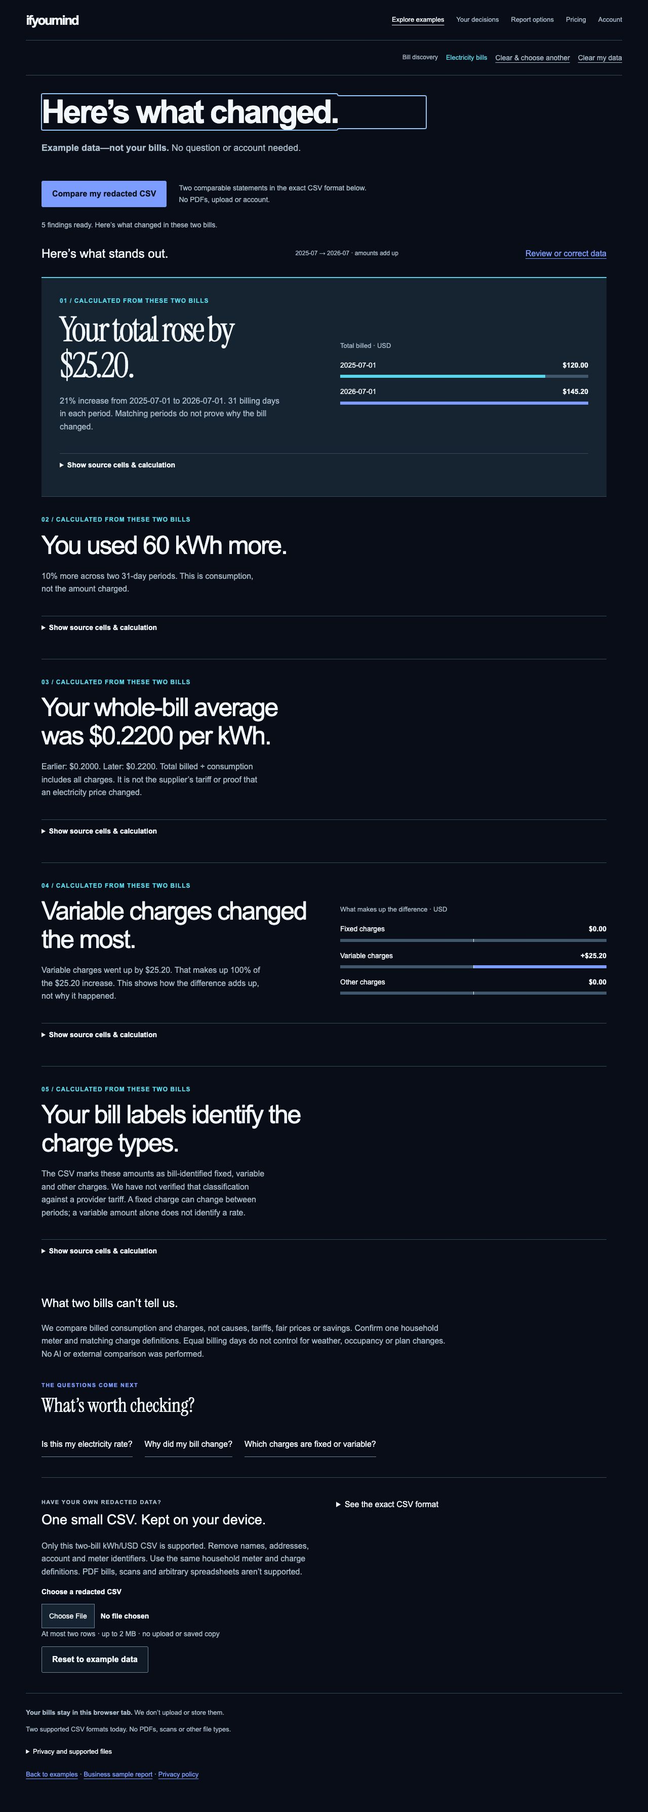
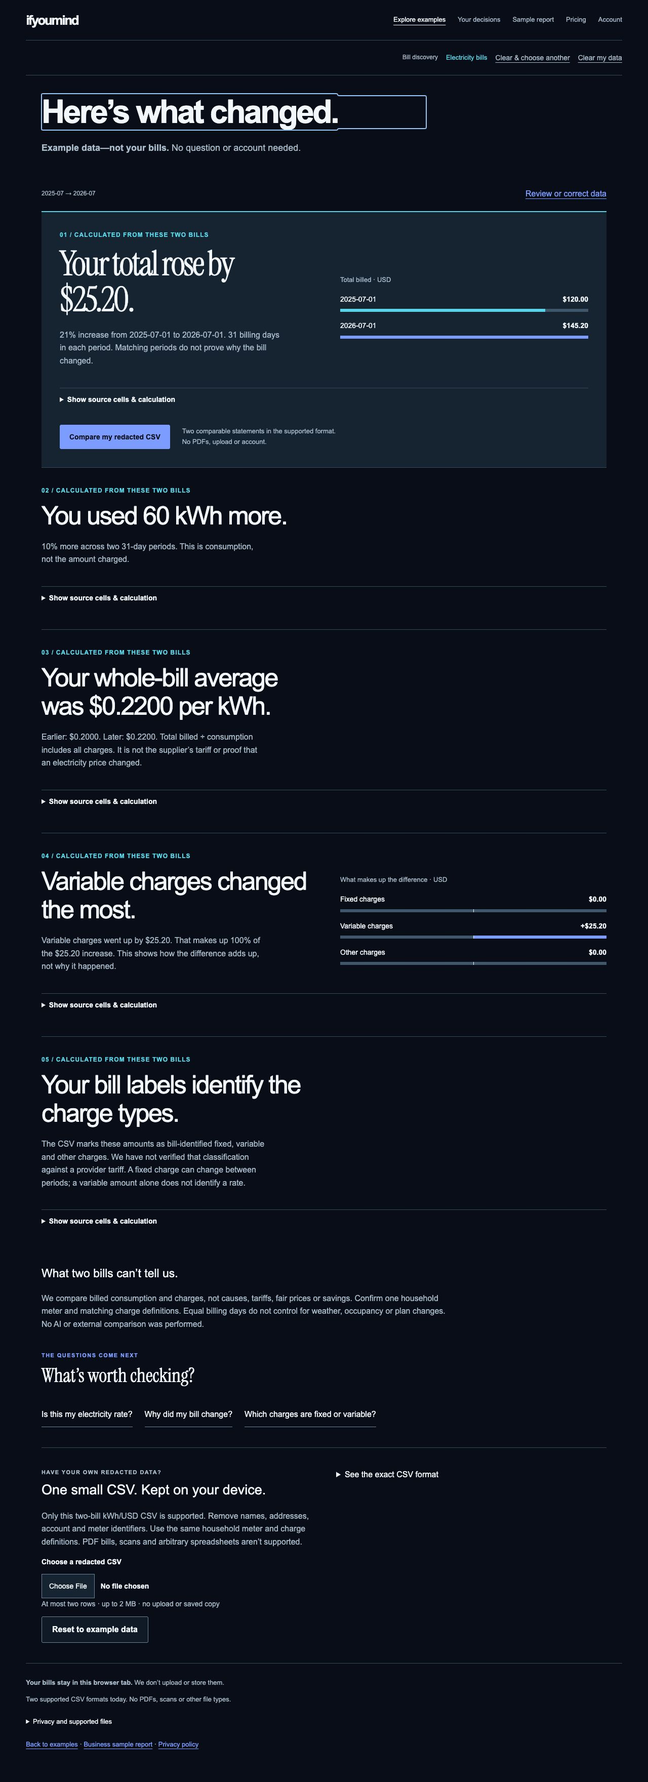
Finish connected prototype review and record verification limits

Changed region(s): [[0.0312, 0.0312, 0.9375, 0.9688], [0.5312, 0.5, 0.9375, 0.5625], [0.625, 0.0, 0.6875, 0.0625]]

diff --git a/src/app/intelligence/data-canvas.component.scss b/src/app/intelligence/data-canvas.component.scss
@@ -1,8 +1,8 @@
 @use '../product-design' as product;
 
-:host{display:block;min-height:100vh;background:var(--iy-studio);color:var(--iy-studio-text)}.canvas-shell{width:min(1180px,calc(100% - 40px));margin:0 auto;padding:28px 0 80px}.app-nav{display:flex;align-items:center;justify-content:space-between;gap:24px;margin-bottom:60px;padding-bottom:20px;border-bottom:1px solid var(--iy-studio-line)}.brand{color:var(--iy-studio-text);font-weight:850;letter-spacing:-.03em;text-decoration:none}.brand span,.app-nav a{color:var(--iy-studio-muted)}.app-nav>div{display:flex;gap:18px}.app-nav>div a{text-decoration:none;font-size:14px}.app-nav a.active{color:var(--iy-studio-text)}header{max-width:820px;margin-bottom:34px}h1{margin:6px 0 14px;font-size:clamp(44px,7vw,76px);line-height:.96;letter-spacing:-.055em}h2{margin:6px 0 16px;letter-spacing:-.03em}p{color:var(--iy-studio-muted);line-height:1.6}.lede{font-size:18px}.eyebrow{margin:0;color:var(--iy-studio-muted);font-size:11px;font-weight:800;letter-spacing:.15em;text-transform:uppercase}.panel,.analysis,.dataset-card,.empty{border:1px solid var(--iy-studio-line);border-radius:var(--iy-panel-radius);background:var(--iy-studio-panel)}.panel{padding:22px}.error{color:var(--iy-studio-error);margin-bottom:16px}.builder-grid{display:grid;grid-template-columns:1fr 1fr;gap:16px}.form-grid{display:grid;grid-template-columns:1fr 1fr;gap:10px}.form-grid textarea,.form-grid button{grid-column:1/-1}input,select,textarea{width:100%;box-sizing:border-box;border:1px solid var(--iy-studio-control);border-radius:var(--iy-radius);background:var(--iy-studio-panel);color:var(--iy-studio-text);padding:12px;font:inherit}button{border:0;border-radius:var(--iy-radius);padding:12px 14px;font-weight:800;cursor:pointer}button:disabled{opacity:.5;cursor:default}.form-grid button,.analyze-button{background:var(--iy-paper);color:var(--iy-ink)}.dataset-section{margin-top:44px}.section-heading,.analysis-header,.relationship-title{display:flex;align-items:center;justify-content:space-between;gap:20px}.dataset-grid{display:grid;grid-template-columns:repeat(3,1fr);gap:12px}.dataset-card{text-align:left;padding:18px;color:inherit}.dataset-card.selected{border-color:var(--iy-studio-accent);box-shadow:inset 0 0 0 1px var(--iy-studio-accent)}.dataset-card strong{display:block;margin:8px 0 6px;font-size:18px}.dataset-card p{margin:0}.dataset-card small,.source{color:var(--iy-studio-muted);font-size:11px}.source{text-transform:uppercase;letter-spacing:.12em}.empty{padding:26px;color:var(--iy-studio-muted)}.analysis{margin-top:34px;padding:24px}.confidence{border:1px solid var(--iy-studio-line);border-radius:999px;padding:7px 10px;color:var(--iy-studio-muted);font-size:11px;text-transform:capitalize}.relationship{margin-top:14px;border-top:1px solid var(--iy-studio-line);padding-top:16px}.relationship-title span{color:var(--iy-studio-muted);font-size:11px}.relationship p{margin:8px 0}.relationship small{color:var(--iy-studio-muted)}.limitations{margin-top:24px;border-top:1px solid var(--iy-studio-line);padding-top:18px}.limitations li{margin:6px 0;color:var(--iy-studio-muted)}.analyze-button{white-space:nowrap}@media(max-width:820px){.builder-grid,.dataset-grid{grid-template-columns:1fr}.form-grid{grid-template-columns:1fr}.app-nav,.section-heading,.analysis-header{align-items:flex-start;flex-direction:column}.app-nav>div{flex-wrap:wrap}.canvas-shell{width:min(100% - 24px,1180px)}}.import-banner{display:flex;align-items:center;justify-content:space-between;gap:20px;margin-bottom:16px;border:1px solid var(--iy-studio-line);border-radius:var(--iy-panel-radius);background:var(--iy-studio-panel);padding:18px 20px}.import-banner strong{display:block;margin-top:5px;font-size:17px}.import-banner a{border-radius:var(--iy-radius);background:var(--iy-paper);color:var(--iy-ink);padding:11px 14px;text-decoration:none;font-weight:800;white-space:nowrap}@media(max-width:640px){.import-banner{align-items:flex-start;flex-direction:column}}
-.target-picker{display:grid;grid-template-columns:minmax(220px,340px);gap:7px;margin:0 0 16px}.target-picker label{color:#8d96a8;font-size:12px;font-weight:700}.target-picker select{width:100%;border:1px solid #39425a;border-radius:var(--iy-radius);background:#0b1018;color:#f4f6fb;padding:11px}.reasoning{border-color:#38436b;background:radial-gradient(circle at top right,rgba(99,102,241,.12),transparent 24rem),var(--iy-studio-panel)}.reasoning-columns{display:grid;grid-template-columns:1fr 1fr;gap:24px;margin-top:24px}.empty-note{color:#737c90;font-size:13px}.raw-analysis{opacity:.86}@media(max-width:820px){.reasoning-columns{grid-template-columns:1fr}}
-.ai-action{display:flex;align-items:center;gap:12px;margin-top:22px;padding-top:18px;border-top:1px solid var(--iy-studio-line)}.ai-action button{background:var(--iy-paper);color:var(--iy-studio)}.ai-action span{color:var(--iy-studio-muted);font-size:12px}.synthesis{border-color:var(--iy-studio-control);background:var(--iy-studio-panel)}.synthesis ul{margin:10px 0 0;padding-left:20px;color:var(--iy-studio-muted)}.synthesis li{margin:8px 0;line-height:1.5}.synthesis-subhead{margin-top:24px}.confidence-explanation{margin-top:22px;border-top:1px solid var(--iy-studio-line);padding-top:18px}@media(max-width:640px){.ai-action{align-items:flex-start;flex-direction:column}}
+:host{display:block;min-height:100vh;background:var(--iy-studio);color:var(--iy-studio-text)}.canvas-shell{width:min(1180px,calc(100% - 40px));margin:0 auto;padding:28px 0 80px}.app-nav{display:flex;align-items:center;justify-content:space-between;gap:24px;margin-bottom:60px;padding-bottom:20px;border-bottom:1px solid var(--iy-studio-line)}.brand{color:var(--iy-studio-text);font-weight:850;letter-spacing:-.03em;text-decoration:none}.brand span,.app-nav a{color:var(--iy-studio-muted)}.app-nav>div{display:flex;gap:18px}.app-nav>div a{text-decoration:none;font-size:14px}.app-nav a.active{color:var(--iy-studio-text)}header{max-width:820px;margin-bottom:34px}h1{margin:6px 0 14px;font-size:clamp(44px,7vw,76px);line-height:.96;letter-spacing:-.055em}h2{margin:6px 0 16px;letter-spacing:-.03em}p{color:var(--iy-studio-muted);line-height:1.6}.lede{font-size:18px}.eyebrow{margin:0;color:var(--iy-studio-muted);font-size:11px;font-weight:800;letter-spacing:.15em;text-transform:uppercase}.panel,.analysis,.dataset-card,.empty{border:1px solid var(--iy-studio-line);border-radius:var(--iy-panel-radius);background:var(--iy-studio-panel)}.panel{padding:22px}.error{color:var(--iy-studio-error);margin-bottom:16px}.builder-grid{display:grid;grid-template-columns:1fr 1fr;gap:16px}.form-grid{display:grid;grid-template-columns:1fr 1fr;gap:10px}.form-grid textarea,.form-grid button{grid-column:1/-1}input,select,textarea{width:100%;box-sizing:border-box;border:1px solid var(--iy-studio-control);border-radius:var(--iy-radius);background:var(--iy-studio-panel);color:var(--iy-studio-text);padding:12px;font:inherit}button{border:0;border-radius:var(--iy-radius);padding:12px 14px;font-weight:800;cursor:pointer}button:disabled{opacity:1;cursor:default}.form-grid button,.analyze-button{background:var(--iy-paper);color:var(--iy-ink)}.dataset-section{margin-top:44px}.section-heading,.analysis-header,.relationship-title{display:flex;align-items:center;justify-content:space-between;gap:20px}.dataset-grid{display:grid;grid-template-columns:repeat(3,1fr);gap:12px}.dataset-card{text-align:left;padding:18px;color:inherit}.dataset-card.selected{border-color:var(--iy-studio-accent);box-shadow:inset 0 0 0 1px var(--iy-studio-accent)}.dataset-card strong{display:block;margin:8px 0 6px;font-size:18px}.dataset-card p{margin:0}.dataset-card small,.source{color:var(--iy-studio-muted);font-size:11px}.source{text-transform:uppercase;letter-spacing:.12em}.empty{padding:26px;color:var(--iy-studio-muted)}.analysis{margin-top:34px;padding:24px}.confidence{border:1px solid var(--iy-studio-line);border-radius:999px;padding:7px 10px;color:var(--iy-studio-muted);font-size:11px;text-transform:capitalize}.relationship{margin-top:14px;border-top:1px solid var(--iy-studio-line);padding-top:16px}.relationship-title span{color:var(--iy-studio-muted);font-size:11px}.relationship p{margin:8px 0}.relationship small{color:var(--iy-studio-muted)}.limitations{margin-top:24px;border-top:1px solid var(--iy-studio-line);padding-top:18px}.limitations li{margin:6px 0;color:var(--iy-studio-muted)}.analyze-button{white-space:nowrap}@media(max-width:820px){.builder-grid,.dataset-grid{grid-template-columns:1fr}.form-grid{grid-template-columns:1fr}.app-nav,.section-heading,.analysis-header{align-items:flex-start;flex-direction:column}.app-nav>div{flex-wrap:wrap}.canvas-shell{width:min(100% - 24px,1180px)}}.import-banner{display:flex;align-items:center;justify-content:space-between;gap:20px;margin-bottom:16px;border:1px solid var(--iy-studio-line);border-radius:var(--iy-panel-radius);background:var(--iy-studio-panel);padding:18px 20px}.import-banner strong{display:block;margin-top:5px;font-size:17px}.import-banner a{border-radius:var(--iy-radius);background:var(--iy-paper);color:var(--iy-ink);padding:11px 14px;text-decoration:none;font-weight:800;white-space:nowrap}@media(max-width:640px){.import-banner{align-items:flex-start;flex-direction:column}}
+.target-picker{display:grid;grid-template-columns:minmax(220px,340px);gap:7px;margin:0 0 16px}.target-picker label{color:#8d96a8;font-size:12px;font-weight:700}.target-picker select{width:100%;border:1px solid #39425a;border-radius:var(--iy-radius);background:#0b1018;color:#f4f6fb;padding:11px}.reasoning{border-color:#38436b;background:var(--iy-studio-panel)}.reasoning-columns{display:grid;grid-template-columns:1fr 1fr;gap:24px;margin-top:24px}.empty-note{color:#737c90;font-size:13px}.raw-analysis{opacity:.86}@media(max-width:820px){.reasoning-columns{grid-template-columns:1fr}}
+.ai-action{display:flex;align-items:center;gap:12px;margin-top:22px;padding-top:18px;border-top:1px solid var(--iy-studio-line)}.ai-action button{background:var(--iy-periwinkle);color:var(--iy-bg)}.ai-action span{color:var(--iy-studio-muted);font-size:12px}.synthesis{border-color:var(--iy-studio-control);background:var(--iy-studio-panel)}.synthesis ul{margin:10px 0 0;padding-left:20px;color:var(--iy-studio-muted)}.synthesis li{margin:8px 0;line-height:1.5}.synthesis-subhead{margin-top:24px}.confidence-explanation{margin-top:22px;border-top:1px solid var(--iy-studio-line);padding-top:18px}@media(max-width:640px){.ai-action{align-items:flex-start;flex-direction:column}}
 .demo-banner{display:flex;align-items:center;justify-content:space-between;gap:20px;margin-bottom:16px;border:1px solid var(--iy-studio-line);border-radius:var(--iy-panel-radius);background:var(--iy-studio-panel);padding:18px 20px}.demo-banner strong{display:block;margin-top:5px;font-size:17px}.demo-banner p:last-child{margin:5px 0 0;font-size:12px}.demo-banner button{background:var(--iy-paper);color:var(--iy-ink);white-space:nowrap}@media(max-width:640px){.demo-banner{align-items:flex-start;flex-direction:column}}
 .workspace-setup{max-width:620px}.workspace-setup h2{font-size:28px}.workspace-setup form{display:flex;gap:10px;margin-top:18px}.workspace-setup form input{flex:1}.workspace-setup form button{background:var(--iy-paper);color:var(--iy-ink);white-space:nowrap}@media(max-width:640px){.workspace-setup form{flex-direction:column}}
 :host {
@@ -24,3 +24,5 @@ input::placeholder, textarea::placeholder { color: var(--iy-studio-muted); opaci
 header h1 { @include product.title; }
 .panel,.demo-banner { border:0; border-top:1px solid var(--iy-line); border-radius:0; box-shadow:none; }
 .dataset-card { border:0; border-bottom:1px solid var(--iy-line); border-radius:0; background:none; }
+
+button:disabled { background:var(--iy-panel); color:var(--iy-muted); border:1px solid var(--iy-control); }

diff --git a/docs/design/midnight-slate/PROTOTYPE.html b/docs/design/midnight-slate/PROTOTYPE.html
@@ -5,4 +5,4 @@ body{margin:0;background:#090D17;color:#F1F7FA;font:16px/1.6 Arial,sans-serif}ma
 <h2>Inspect the bill’s evidence</h2><div class="pair"><img src="screenshots/after-tax-1280.jpg" alt="Desktop tax example with deterministic finding"><img class="mobile" src="screenshots/after-tax-390.jpg" alt="Mobile tax example with deterministic finding"></div>
 <h2>Continue with your own supported information</h2><div class="pair"><img src="screenshots/after-own-tax-1280.jpg" alt="Desktop supported redacted CSV intake"><img class="mobile" src="screenshots/after-own-tax-390.jpg" alt="Mobile supported redacted CSV intake"></div>
 <h2>Resume your saved city question</h2><div class="pair"><img src="screenshots/after-decisions-1280.jpg" alt="Desktop saved city questions precede suggestions"><img class="mobile" src="screenshots/after-decisions-390.jpg" alt="Mobile saved city decision list"></div>
-<h2>Understand the optional purchase</h2><div class="pair"><img src="screenshots/after-pricing-1280.jpg" alt="Desktop pricing with Free and the unchanged one-time report"><img class="mobile" src="screenshots/after-pricing-390.jpg" alt="Mobile pricing with closed monthly enrollment"></div><p class="note">Human acceptance is untested. The founder’s five unassisted tasks remain the release criterion. See REVIEW.md for the complete route map, privacy boundaries and verification evidence.</p></main></body></html>
+<h2>Understand the optional purchase</h2><div class="pair"><img src="screenshots/after-pricing-1280.jpg" alt="Desktop pricing with Free and the unchanged one-time report"><img class="mobile" src="screenshots/after-pricing-390.jpg" alt="Mobile pricing with closed monthly enrollment"></div><h2>Account datasets stay distinct from private bills</h2><div class="pair"><img src="screenshots/after-data-1280.jpg" alt="Desktop account CSV import explicitly distinguishes private bill processing"><img class="mobile" src="screenshots/after-ask-390.jpg" alt="Mobile Ask names compatible saved datasets and evidence limitations"></div><p class="note">Human acceptance is untested. The founder’s five unassisted tasks remain the release criterion. See REVIEW.md for the complete route map, privacy boundaries and verification evidence.</p></main></body></html>

diff --git a/src/app/intelligence/ask.component.scss b/src/app/intelligence/ask.component.scss
@@ -91,11 +91,11 @@ button {
 
 .ask-panel form button {
   justify-self: end;
-  background: var(--iy-paper);
-  color: var(--iy-studio);
+  background: var(--iy-periwinkle);
+  color: var(--iy-bg);
 }
 
-button:disabled { opacity: .5; cursor: default; }
+button:disabled { opacity: 1; cursor: default; }
 
 .prompt-row, .followups {
   display: flex;
@@ -141,8 +141,8 @@ button:disabled { opacity: .5; cursor: default; }
 
 .save-answer {
   margin-top: 14px;
-  background: var(--iy-paper);
-  color: var(--iy-studio);
+  background: var(--iy-periwinkle);
+  color: var(--iy-bg);
 }
 
 .saved-actions {
@@ -185,3 +185,5 @@ header h1 { @include product.title; }
 .history article { border:0; border-bottom:1px solid var(--iy-line); border-radius:0; background:none; }
 .data-context { color:var(--iy-muted); font-size:14px; }.data-context a,.panel>a { color:var(--iy-accent); }
 .data-context a { text-decoration:underline; }
+
+.ask-panel form button:disabled { background:var(--iy-panel); color:var(--iy-muted); border:1px solid var(--iy-control); }

diff --git a/src/app/intelligence/data-canvas.component.html b/src/app/intelligence/data-canvas.component.html
@@ -10,10 +10,10 @@
   </nav>
 
   <header>
-    <p class="eyebrow">Data Canvas</p>
-    <h1>Put anything together.</h1>
+    <p class="eyebrow">Explore your saved data</p>
+    <h1>Compare the observations.</h1>
     <p class="lede">
-      Real estate. Crime. Food. Weather. Business metrics. Anything with measurable observations can live here.
+      Add measured values, then compare datasets with compatible periods and places. Relationships are not proof of cause.
     </p>
   </header>
 

diff --git a/docs/design/midnight-slate/REVIEW.md b/docs/design/midnight-slate/REVIEW.md
@@ -101,9 +101,9 @@ The first connected prototype check passed the category-to-intake and saved-ques
 
 ## Verification and limitations
 
-Local `npm run build`, `npm run build:local`, 146 fast checks, 32 targeted authenticated browser/accessibility checks and the production/island guards passed at their recorded checkpoints. New targeted tests cover supported-category intake, no unsupported explanation for missing input, state clearing, saved-question ordering and conclusion-before-contents. Full exact-head CI is required for the final draft. Initial Hosting verification exposed stale typography/label assertions and an actual first-finding placement problem at 320 px; correct the layout rather than removing that viewport requirement. The source review retains all existing verification/payment/intent tests while changing the intentional single sample-offer expectation.
+Local `npm run build`, `npm run build:local`, 146 fast checks, 32 targeted authenticated browser/accessibility checks and the production/island guards passed at their recorded checkpoints. New targeted tests cover supported-category intake, no unsupported explanation for missing input, state clearing, saved-question ordering and conclusion-before-contents. Exact-head Linux CI is blocked by the verified GitHub account billing lock; it remains required for release. Initial Hosting verification exposed stale typography/label assertions and an actual first-finding placement problem at 320 px; correct the layout rather than removing that viewport requirement. The source review retains all existing verification/payment/intent tests while changing the intentional single sample-offer expectation.
 
-Local production build measured 693.09 kB raw / 185.05 kB estimated transfer versus #118's 683.74 / 183.19 kB before the final small category-navigation correction. These are build estimates, not field speed measurements. The island remains three allowlisted assets with no provider endpoints. Stylesheet warning budgets remain exceeded on several views, while hard budgets pass; the report stylesheet is smaller than #118's. The desktop decorative image is lazy-loaded and hidden on phones. No new runtime dependency or remote font was added.
+Final local production build measured 693.28 kB raw / 185.14 kB estimated transfer versus #118's 683.74 / 183.19 kB: +9.54 kB raw and +1.95 kB estimated transfer. The local bill island measured 246.71 / 68.21 kB versus 240.73 / 67.42 kB. These are build estimates, not field speed measurements. The island remains three allowlisted assets with no provider endpoints. Stylesheet warning budgets remain exceeded on several views, while hard budgets pass; the report stylesheet is smaller than #118's. The desktop decorative image is lazy-loaded and hidden on phones. No new runtime dependency or remote font was added.
 
 Baseline changes require individual expected/actual/diff review. Do not accept them automatically. Functional, Linux visual and exact-head workflow outcomes are recorded on the draft. Native iPhone/Safari, spoken VoiceOver, actual print-device behavior and the founder's five unassisted human tasks remain untested. No visitor acquisition, preference, purchase or comprehension outcome is invented.
 
@@ -120,3 +120,19 @@ The draft is stacked on #118 so its review contains only this redesign. Dispatch
 The first broad Hosting run passed 66 cases and exposed outdated copy/typography/menu assertions plus an actual 320 px finding-placement issue. After the intentional assertion updates, 79 passed and five remained. A targeted rerun then passed eight of nine after removing a duplicate findings heading, keeping ready-state announcements accessible but visually quiet, and moving the CSV continuation after the first finding. The final remaining issue was the unknown-category chooser burying its action below a long tax question and preview. It now asks only **Choose a bill.** with its example action before preview detail. Links from a known example bypass this chooser. These corrections preserve arithmetic, limitations, keyboard evidence and private-data clearing; exact-head CI must verify the final result.
 
 The first Launch manual dispatch was rejected because its workflow lacked a manual trigger; it did not run or deploy anything. The existing non-deploying build receives a manual trigger on this design branch. No production workflow, release trigger or permission is changed.
+
+
+## Final local review checkpoint — November 20
+
+Draft [#119](https://github.com/alwat83/ifyoumind/pull/119) remains stacked on protected #118. UI source checkpoint `1f800024f50650b81e6a656f648b12ed50bb27a5`; the final follow-up also corrects dark-on-dark action labels in Ask/advanced, narrows advanced-analysis capability wording, extends the existing route accessibility check and refreshes test/evidence captures. Final candidate SHA and exact-head workflow results are recorded in the PR. [Detailed local verification](LOCAL_VERIFICATION.md) distinguishes successful checks, initial failures and targeted reruns.
+
+- Final complete Hosting suite: **84 passed**, including 320 px. Narrow finding/qualified-answer checks: **9 passed** without removing placement assertions.
+- Full authenticated sweep: **179 passed, 3 failed, 14 Linux-only visual cases skipped**. Two failures were the expected Chrome offline console message; the third submitted an empty Name once. Auth implementation was unchanged. The scoped offline diagnostic allowance and explicit form/value readiness assertions passed **12 repeated targeted cases**. The original Name-loss cause is not conclusively established; this is not a newly green full sweep.
+- Final secondary-route accessibility/return/report rerun: **6 passed** after actual screenshots exposed dark-on-dark Ask/advanced action labels. Corrected primary/disabled colors and removed the advanced page's unrestricted “anything” wording. Shared arithmetic and data services are untouched.
+- Functions **72**, fast web **146**, rules **8**, organizations **5**, fixture/access **24** passed; one historical fixture skipped. Commerce **47 passed, 1 failed** with Firestore emulator `Transaction is invalid or closed`; the identical month-boundary concurrency case passed unchanged in a fresh emulator. No quota/concurrency assertion or backend implementation was weakened. A clean full commerce CI remains a release gate.
+- Refreshed complete after captures at **1280, 820, 390 and 320 px**: 40 screenshots, zero horizontal overflow. Own-input/evidence and six data/Ask/advanced captures add desktop/mobile detail. Screens are actual local app routes with synthetic fixtures. Navigation, evidence, keyboard, axe and reduced-motion checks are automated engineering evidence, not spoken screen-reader or human-comprehension results.
+- Both manually dispatched workflows on `1f800024…` failed before any step. [Launch 44835415458](https://github.com/alwat83/ifyoumind/actions/runs/44835415458) and [QA 44835419791](https://github.com/alwat83/ifyoumind/actions/runs/44835419791) independently report: **“The job was not started because your account is locked due to a billing issue.”** No runner, billing setting or security control was changed. Final exact-head attempts are linked from the PR; the Linux baselines remain untouched and require individual actual/diff review after account restoration.
+
+Fresh read-only production metadata retained Hosting `39dc573f3826dca6`, release `1794933315802000`, and `createmarketintelligenceproject-00087-nub` ACTIVE at 100%. Prior Hosting `cd0b78221355e0f4` remains finalized. This design was not merged or deployed. #118's head remains `2f4975f94ac888547df8b1fbdf149a50741f6570`. No production write, payment, customer record, provider generation, entitlement or enrollment change.
+
+**GO for connected-prototype founder review; NO-GO for production.** Remaining gates: restored GitHub execution and clean exact-head checks; individually reviewed Linux visual differences; real unassisted five-task acceptance; separately approved foundation reconciliation and release scope, including the unwaived #111 live retry. The current strict CSV requirement is a material consumer usability limitation, not arbitrary bill/PDF support. No new parsing feature is proposed here.

diff --git a/docs/design/midnight-slate/LOCAL_VERIFICATION.md b/docs/design/midnight-slate/LOCAL_VERIFICATION.md
@@ -1,0 +1,79 @@
+# Midnight Slate — local verification evidence
+
+Observed November 20, 2026 · OpenAI / Codex · draft #119. UI source checkpoint `1f800024f50650b81e6a656f648b12ed50bb27a5`. The final follow-up corrects Ask/advanced action contrast and capability wording, extends route accessibility coverage, and updates regression-harness readiness, screenshots and documentation. No production changes or customer data. Results below are newly executed local checks, not GitHub CI or user outcomes.
+
+| Check | Observed result | Limits / correction |
+| --- | --- | --- |
+| Production build `npm run build` | PASS | Initial 693.28 kB raw / 185.14 kB estimated transfer. Stylesheet warning budgets exceeded; hard budgets passed. |
+| Emulator app `npm run build:local` | PASS | Uses demo project only. |
+| Production, island and three standalone guards | PASS | Production guard examined 40 files; island has three allowlisted assets, excludes app imports/provider endpoints; existing tax/electricity/unified standalone builds and isolation guards pass. |
+| Fast web `node scripts/web-tests.js` | 146 pass | Includes provenance and truthful illustrative social template tests. |
+| Functions `npm --prefix functions test` | 72 pass | No backend diff in this design. |
+| Full local Hosting `QA_BROWSER_CHANNEL=chrome npm run test:discover` | 84 pass | Desktop, mobile, 320 px; final finding-placement assertions retained. |
+| Focused finding and qualified-answer rerun | 9 pass | Tax/electricity on desktop, 390 and 320 px. |
+| Final secondary-route/return/report checks | 6 pass | Extends dark-palette, overflow and axe coverage to data, Ask and advanced routes after the action-label correction. |
+| Targeted connected/visual/a11y browser suite | 32 pass | Earlier 25 pass / 7 fail exposed genuine inline-link contrast distinction and test timing; corrected. |
+| Complete authenticated browser suite | 179 pass / 3 fail / 14 skip | Linux-only visual cases intentionally skipped on macOS; these are not visual passes. |
+| Affected signup/offline checks, 3 repeats × desktop/mobile | 12 pass | After explicit form/value readiness and exact expected-offline console allowance. Not a rerun of the full suite. |
+| Commerce `npm run test:commerce` | 47 pass / 1 fail | Emulator `Transaction is invalid or closed` during unchanged concurrent month-boundary case. |
+| Same commerce case in fresh emulator | 1 pass, unchanged | No backend or quota/concurrency assertion changed. Clean complete commerce CI still required. |
+| Firestore `npm run test:rules` | 8 pass | Internal/tenant boundaries preserved. |
+| Organizations `npm run test:organizations` | 5 pass | Local auth and Firestore only. |
+| Fixtures/access `npm run test:qa-integration` | 24 pass / 1 skip | Historical fixture skipped; not represented as tested. |
+| Final after screenshot capture | 40 captures, zero overflow | 10 complete routes × 1280/820/390/320 px; before set is unchanged #118. Additional desktop/mobile own-input, expanded-evidence and six account-dataset/Ask/advanced captures. |
+| Editorial exports | 6 PNG + HTML, zero overflow | Synthetic tax/electricity, square/portrait/story; no publication. |
+
+## Commands and interpretation
+
+Use the lockfiles and existing package scripts. Local browser runs set `QA_BROWSER_CHANNEL=chrome` because the pinned Linux Playwright renderer is not installed locally. Linux pixel comparisons must use the reviewed CI renderer. No baseline files were updated in this redesign.
+
+```sh
+npm run build
+npm run build:local
+npm run check:production-bundle
+npm run build:discovery
+npm run build:electricity
+npm run build:unified
+npm run check:discovery-isolation
+node scripts/check-discovery-isolation.mjs --electricity
+node scripts/check-discovery-isolation.mjs --unified
+node scripts/web-tests.js
+npm --prefix functions test
+QA_BROWSER_CHANNEL=chrome npm run test:discover
+QA_PORT=4309 QA_BROWSER_CHANNEL=chrome npm run test:e2e
+npm run test:commerce
+npm run test:rules
+npm run test:organizations
+npm run test:qa-integration
+QA_BROWSER_CHANNEL=chrome node scripts/render-midnight-social.mjs --png
+```
+
+Targeted browser command uses `firebase emulators:exec --project demo-ifyoumind --only auth,firestore,functions` and Playwright config `e2e/playwright.config.mjs`, `--workers=1`, with `connected-journey`, `midnight-experience`, `layout-a11y` and `sample-report-mobile` specs. Affected reruns select the city signup and losing-connection cases and use `--repeat-each=3`. Existing auth verification, intent return, offline recovery and request-count assertions remain.
+
+The empty Name observed once in the full sweep was not conclusively traced to a runtime cause. The design changes no signup logic. Explicit readiness and entered-value checks prevent the test from treating an empty submission as a successful setup. Two other failures were expected Chrome `ERR_INTERNET_DISCONNECTED` console diagnostics during deliberately offline recovery; the allowance is scoped to that one test and exact error. Offline UI/retry assertions remain.
+
+The commerce fresh-emulator rerun was:
+
+```sh
+node node_modules/firebase-tools/lib/bin/firebase.js emulators:exec \
+  --project demo-ifyoumind --only firestore \
+  "node --test --test-concurrency=1 --test-name-pattern='replaying a city save across the UTC month boundary' test/subscriptions.integration.test.mjs"
+```
+
+A guard invocation initially lacked the standalone preview build and stopped with ENOENT after its production/island checks passed; all three existing standalone entries were then built and their guards passed. An initial sandbox emulator invocation could not bind its port and executed no tests. The permitted local-emulator retry above passed. Demo Functions emit denied Secret Manager lookup warnings for the demo project; no secret was returned. No production fixture, transaction, provider request or report entitlement was created.
+
+## Exact-head CI blocker
+
+At UI checkpoint `1f800024…`, [Launch 44835415458](https://github.com/alwat83/ifyoumind/actions/runs/44835415458) and [Authenticated QA 44835419791](https://github.com/alwat83/ifyoumind/actions/runs/44835419791) both failed before any job step. Independent annotations on check runs `136630458892` and `136630471990` state:
+
+> The job was not started because your account is locked due to a billing issue.
+
+There are no executed job steps or product-test logs. This is an external execution blocker, not evidence of a failing product assertion or passing tests. Final exact-head attempts are recorded on [PR #119](https://github.com/alwat83/ifyoumind/pull/119/checks). Account billing was not changed. No extra runner/service or bypass was introduced. Launch adds only a manual trigger for the stacked branch; deployment workflows are unchanged.
+
+After account restoration, run both workflows on the final head. Inspect each changed Linux expected/actual/diff and adopt only explicitly reviewed references. No bulk acceptance and no CI baseline regeneration. Rerun the required full suites on that head. A green #118 run does not verify this design.
+
+## Untested and release recommendation
+
+Physical iPhone/Safari, spoken VoiceOver, native print-device behavior and actual human first-use comprehension are untested. Automated keyboard, axe, reduced-motion and responsive checks do not substitute for them. The strict two-statement CSV format remains a material first-use constraint; PDFs and arbitrary bills are unsupported.
+
+**GO for founder prototype review; NO-GO for production.** Required: clean exact-head CI, individual Linux visual review, unassisted five-task acceptance, foundation reconciliation and separately authorized release scope. The #111 live retry remains unverified. #118 was not modified, #95/#101 pilots remain isolated, and #96 AI remains staging-disabled. No new business outcomes were measured.

diff --git a/docs/agent-handoff/DEVELOPMENT_LOG.md b/docs/agent-handoff/DEVELOPMENT_LOG.md
@@ -705,3 +705,14 @@ Local production build and bundle/isolation guards passed. Fast tests: 146 pass.
 The connected prototype checkpoint was preserved at `fc2c6bb9dcfa4d5dac15970aab07bf8b2b4402c4`. Follow-up removes redundant bill-result metadata above the first finding and makes the unknown-category chooser ask only which bill. Known example links bypass it. The CSV continuation uses an output event to focus the existing input without changing the URL, preventing category loss through the document base URL. The existing 320 px first-finding assertion was retained and corrected by layout changes. A shared-navigation context parameter carries only an allowlisted public category. No bill values or account data are retained in navigation. The separate draft and its exact-head workflows record final verification; #118’s branch stays at the reviewed foundation.
 
 Draft [#119](https://github.com/alwat83/ifyoumind/pull/119) is stacked on #118. Launch could not be manually dispatched because its existing workflow exposed only master-target PR events. Added only a manual trigger to that non-deploying workflow, allowing exact-branch checks for the separate design review. Production automation and workflow permissions are unchanged.
+
+
+## 2026-11-20 — Connected prototype final local verification and external CI blocker
+
+OpenAI / Codex on `codex/midnight-slate`, draft #119 stacked on unchanged #118 (`2f4975f94ac888547df8b1fbdf149a50741f6570`). UI checkpoint `1f800024f50650b81e6a656f648b12ed50bb27a5`; final changes correct dark-on-dark action labels in Ask/advanced and narrow capability wording, extend route accessibility coverage, and update regression-harness readiness, actual-app screenshots and evidence. No auth, commerce, calculator or backend change. Final production/local builds, bundle and privacy-island guards pass. Full Hosting 84, fast 146, Functions 72, rules 8, organizations 5 and fixture/access 24 pass (one historical fixture skipped). The 179-pass authenticated sweep had three failures and 14 Linux visual skips. Explicit signup form/value assertions and a scoped expected Chrome offline diagnostic passed 12 affected repeats; initial failures remain disclosed. The 47-pass commerce sweep hit one emulator closed-transaction error; its unchanged month-boundary concurrent case passed in a fresh emulator. A sandbox emulator startup failed before execution and the authorized local retry ran; skipped attempts are not passes.
+
+Refreshed 40 complete after captures at 1280/820/390/320 px with zero horizontal overflow, plus own-input/evidence detail. Reviewed representative full screenshots and six illustrative editorial exports. Connected desktop/mobile prototype is the real app, not a duplicate shell. The strict two-statement CSV requirement remains explicit; no arbitrary uploads or provider capability is claimed. Physical iPhone/Safari, spoken screen readers and the founder's five unassisted tasks remain untested. No participant or revenue outcome.
+
+Exact checkpoint workflows Launch 44835415458 / QA 44835419791 were accepted but both ran zero steps: “The job was not started because your account is locked due to a billing issue.” Confirmed both check annotations. No billing change, spending, runner bypass or visual-baseline acceptance. PR records final candidate and exact-head evidence; Linux actual/diff inspection remains blocked. Read-only production retained Hosting `39dc573f3826dca6`, release `1794933315802000`, writer `createmarketintelligenceproject-00087-nub` ACTIVE at 100%, and finalized prior Hosting `cd0b78221355e0f4`. No production mutation, merge, deployment, real transaction, AI request or outreach. #118, #95, #101 and disabled #96 remain separate. Recommendation: GO for founder prototype review; NO-GO for release. Next: restore GitHub execution and complete exact-head visual review; observe five-task first-use acceptance; reconcile the separately approved foundation/release gates. Business benefit remains a hypothesis about first-answer understanding and return use. Current actual customer/revenue scoreboard is unchanged.
+
+Final secondary-surface inspection identified near-invisible Ask/advanced action labels. Fixed their primary and disabled colors, removed an unused purple gradient, and replaced the advanced “anything” claim with compatible-observation wording. Rebuilt production/local, reran 146 fast checks and six expanded route/accessibility/return/report cases successfully. These are scoped visual/copy corrections, with no data, provider or authorization change. Six extra actual-app data/Ask/advanced desktop/mobile captures have zero overflow. The prototype index now includes account-dataset boundaries. No user outcome is inferred.

diff --git a/docs/agent-handoff/CURRENT_STATUS.md b/docs/agent-handoff/CURRENT_STATUS.md
@@ -1,10 +1,14 @@
 # ifYouMind — Current development status
 
-## November 20, 2026 — Connected Midnight Slate prototype
+## November 20, 2026 — Connected Midnight Slate draft #119
 
-`codex/midnight-slate` is a separate redesign based on protected draft #118 at `2f4975f94ac888547df8b1fbdf149a50741f6570`. It does not modify that branch or authorize releasing it. The founder’s connected-experience correction is highest priority: one free-example entry, a consistent finding/evidence/next-action pattern, explicit private-bill versus account-data boundaries, saved city questions before suggestions, and one contextual sample-report offer. [Journey map, complete route audit and acceptance protocol](../design/midnight-slate/REVIEW.md) · [desktop/mobile prototype index](../design/midnight-slate/PROTOTYPE.html).
+[Draft #119](https://github.com/alwat83/ifyoumind/pull/119), `codex/midnight-slate`, is stacked on protected #118 at `2f4975f94ac888547df8b1fbdf149a50741f6570`; that branch remains unchanged. UI checkpoint `1f800024f50650b81e6a656f648b12ed50bb27a5`, followed by targeted Ask/advanced action-contrast and truthful-capability copy fixes, plus test/evidence updates. The PR records the final candidate SHA. [Route audit, impact matrix and journey map](../design/midnight-slate/REVIEW.md) · [desktop/mobile prototype](../design/midnight-slate/PROTOTYPE.html) · [test evidence](../design/midnight-slate/LOCAL_VERIFICATION.md).
 
-Working local prototype: 146 fast tests and 32 targeted browser/accessibility checks passed after correcting link distinguishability and a mobile navigation test race. Production-equivalent build and bundle/privacy-island guards passed. Four-width captures have zero overflow. Six clearly illustrative social templates render locally with no network/publication. Exact-head CI and Linux visual comparisons remain required on the separate draft; green #118 checks do not cover this redesign. Human comprehension, physical-device and spoken screen-reader checks are unverified. No production, billing, entitlement, enrollment or OpenAI change. #111’s live retry remains unverified and is not waived.
+Implemented one free-example entry, shared goal navigation, matching own-CSV handoffs, finding before evidence, saved city questions before suggestions and one optional sample-report offer. Private bills remain browser-local; city decisions and account datasets are explicitly distinct. Four-width final screenshots have zero overflow; six labeled social exports remain unsent. No second shell, new runtime dependency, billing, provider or production change.
+
+Local builds and production/island guards passed; six final secondary-route accessibility/return/report checks passed. Full standalone guard verification is recorded in the detailed evidence. 84 Hosting, 146 fast, 72 Functions, 8 rules, 5 organization and 24 fixture/access checks passed (one historical fixture skipped). Authenticated sweep: 179 passed / 3 failed / 14 Linux-only cases skipped; the two scoped test-harness corrections passed all 12 repeated affected cases. Commerce: 47 pass / one emulator transaction error; the unchanged concurrency case passed in a fresh emulator. Do not represent these targeted reruns as a green full sweep.
+
+**External blocker:** [Launch](https://github.com/alwat83/ifyoumind/actions/runs/44835415458) and [QA](https://github.com/alwat83/ifyoumind/actions/runs/44835419791) on exact UI checkpoint were prevented from starting by GitHub's account billing lock. No job steps ran. Final exact-head evidence is in the PR. Linux baselines are unchanged and unreviewed for this redesign. Account restoration, exact-head CI and individual visual-diff review remain required; no billing or runner bypass is authorized. Physical iPhone/Safari, spoken VoiceOver and unassisted human acceptance remain untested. **GO for prototype review / NO-GO for release.** #111's live retry is unverified and not waived. Production remains the independently read-back #111 deployment below; #95/#101 local pilots and staging-disabled #96 stay separate.
 
 ## November 20, 2026 — Consumer integration release candidate
 

diff --git a/IFYOUMIND_MASTER_PROJECT.md b/IFYOUMIND_MASTER_PROJECT.md
@@ -10,7 +10,7 @@
 
 ## November 20, 2026 — Connected Midnight Slate redesign
 
-A separate design branch builds on PR #118 without altering or releasing it. The founder identified fragmented entry points as the priority. The [route audit and connected journey](docs/design/midnight-slate/REVIEW.md) replace feature-oriented navigation with one example → finding → evidence → relevant continuation model, retain browser-local bill privacy, and distinguish saved city decisions and account-based datasets. The actual Angular application supplies the desktop/mobile prototype, with no duplicate website or shell. Shared Midnight Slate tokens, narrative report layouts, saved-question lists and draft editorial artwork support this flow. Human first-use acceptance and release authorization remain separate from automated tests.
+A separate design branch builds on PR #118 without altering or releasing it. The founder identified fragmented entry points as the priority. The [route audit and connected journey](docs/design/midnight-slate/REVIEW.md) replace feature-oriented navigation with one example → finding → evidence → relevant continuation model, retain browser-local bill privacy, and distinguish saved city decisions and account-based datasets. The actual Angular application supplies the desktop/mobile prototype, with no duplicate website or shell. Shared Midnight Slate tokens, narrative report layouts, saved-question lists and draft editorial artwork support this flow. Human first-use acceptance and release authorization remain separate from automated tests. [Draft #119](https://github.com/alwat83/ifyoumind/pull/119) includes complete four-width prototypes, local verification and six unsent illustrative social templates. Exact-head GitHub execution is blocked before any job step by an independently verified account billing lock; Linux visual review and human acceptance remain release gates. The candidate is GO for prototype review and NO-GO for production. See the current handoff for initial failures and targeted reruns; no full CI pass or measured business outcome is claimed.
 
 ## November 20, 2026 — Integrated consumer release candidate
 

diff --git a/docs/growth/REVENUE_GROWTH_PLAN.md b/docs/growth/REVENUE_GROWTH_PLAN.md
@@ -4,7 +4,7 @@ Founder-directed strategic reset, October 22, 2026. Repository/GitHub are author
 
 ## November 20 — One connected consumer journey
 
-The separate [Midnight Slate prototype](../design/midnight-slate/REVIEW.md) prioritizes understanding what the product does, what is supported and what a click opens. Keep public bill value, account-based city evidence and the existing $79 report distinct but connected. Priorities: verify the prototype end to end; observe the founder’s five unassisted first-use tasks with a consenting participant; correct actual confusion before expanding features or distribution. No participant feedback, new revenue, conversion lift or operating-cost observation is claimed. Existing scoreboard dates and scope are unchanged. No publishing, pricing, enrollment or paid AI activation.
+The separate [Midnight Slate prototype](../design/midnight-slate/REVIEW.md) prioritizes understanding what the product does, what is supported and what a click opens. Keep public bill value, account-based city evidence and the existing $79 report distinct but connected. Priorities: verify the prototype end to end; observe the founder’s five unassisted first-use tasks with a consenting participant; correct actual confusion before expanding features or distribution. No participant feedback, new revenue, conversion lift or operating-cost observation is claimed. Existing scoreboard dates and scope are unchanged. Draft #119 has local working prototypes and full-route captures, but exact-head Linux CI is blocked by the GitHub account billing lock. Use the synthetic local prototype for permitted founder review; do not infer launch readiness or conversion improvement. No publishing, pricing, enrollment or paid AI activation.
 
 ## November 20 — Integrated first-answer candidate
 
